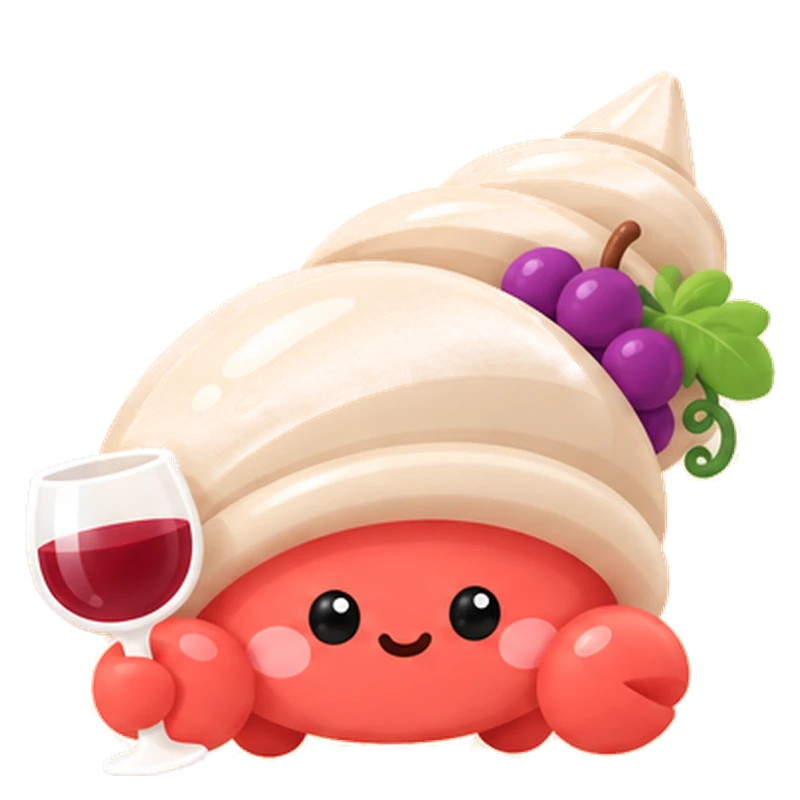
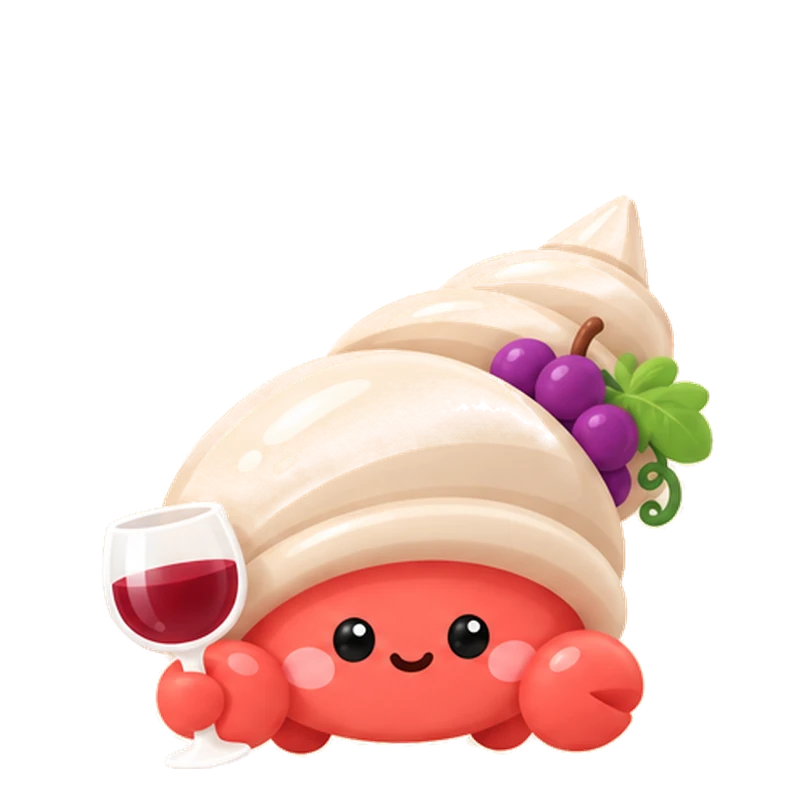
소라게 9종 — 같은 배율 · 몸 가운데 · 바닥 맞춤, 결과 자세히 알아보기는 가운데 그대로 · 저장 아이콘은 오른쪽

diff --git a/src/styles/test.css b/src/styles/test.css
@@ -148,7 +148,10 @@
 .share__btn--insta { background: radial-gradient(circle at 30% 107%, #FDF497 0%, #FDF497 5%, #FD5949 45%, #D6249F 60%, #285AEB 90%); }
 .share__btn--insta svg { width: 28px; height: 28px; }
 /* 자세히 알아보기 · 저장(아이콘만, 같은 높이 동그라미) */
-.result__cta { display: flex; align-items: center; justify-content: center; gap: 10px; }
+/* 자세히 알아보기는 그대로 가운데, 저장 아이콘은 그 오른쪽에 붙음 */
+.result__cta { display: grid; grid-template-columns: 1fr auto 1fr; align-items: center; column-gap: 10px; width: 100%; }
+.result__cta .btn { grid-column: 2; }
+.result__cta .result__save { grid-column: 3; justify-self: start; }
 .result__save { display: grid; place-items: center; flex: none; width: 46px; height: 46px; padding: 0; border: 1.5px solid var(--orange); border-radius: 50%; background: transparent; color: var(--orange-ink); cursor: pointer; transition: background var(--t-hover) var(--ease); }
 .result__save:hover { background: rgba(240, 136, 58, .12); }
 .result__save .result__icon { width: 20px; height: 20px; }
